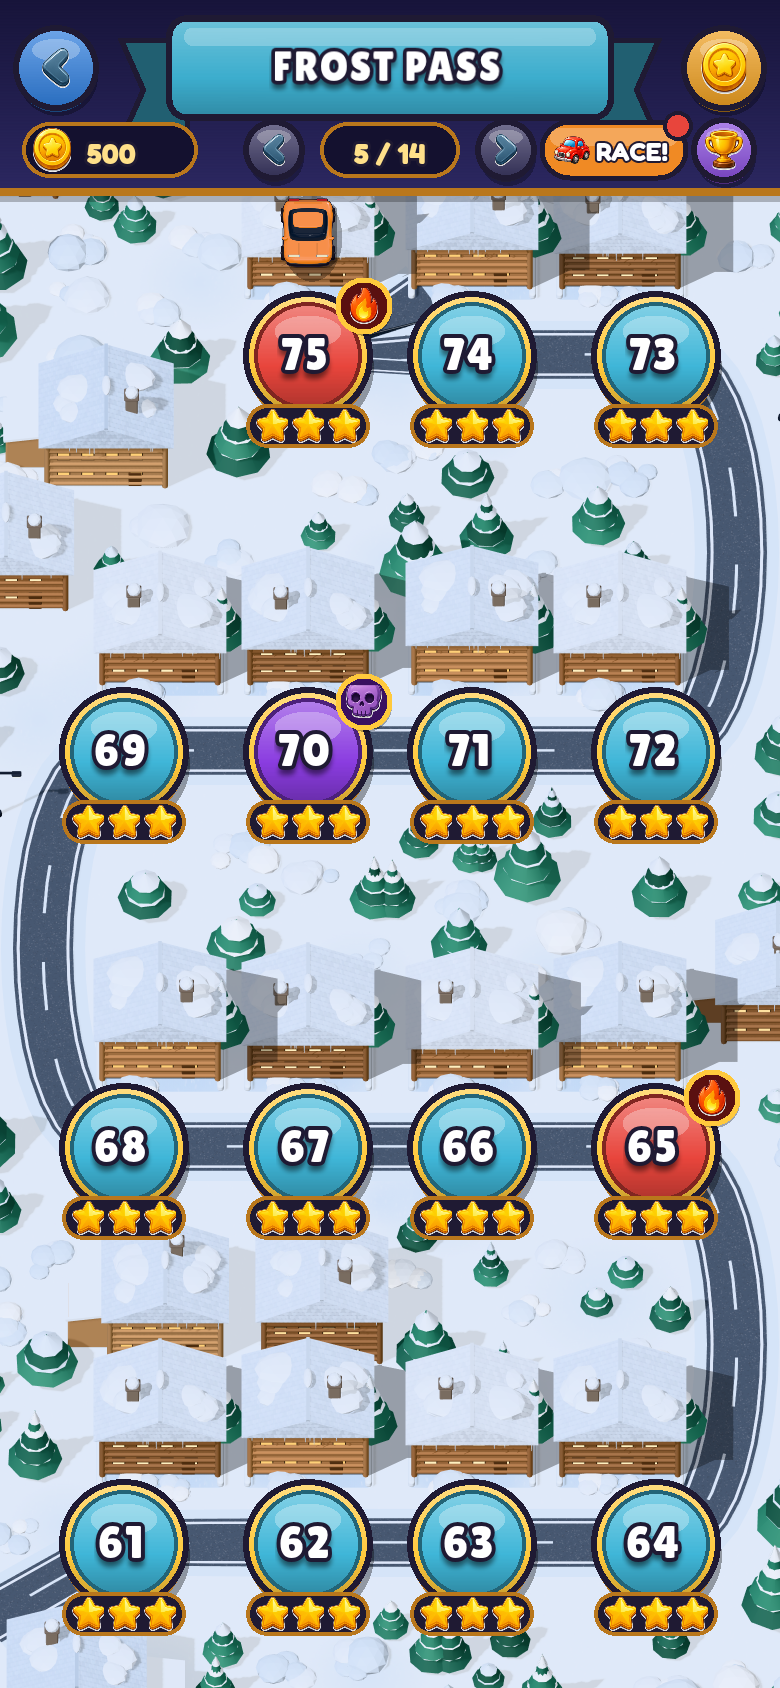
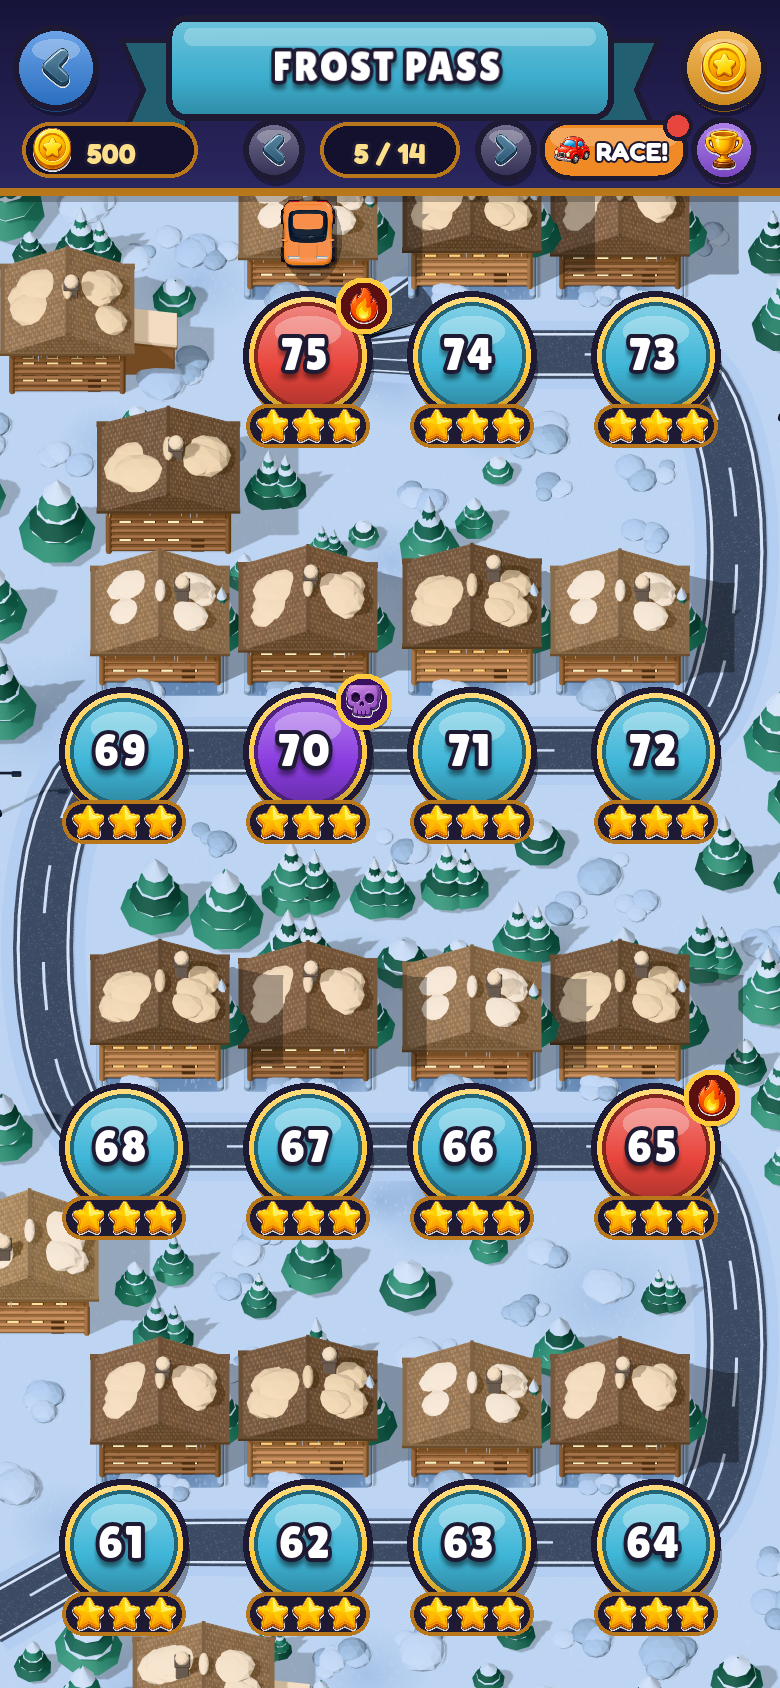
art(world5): separate cabin roof snow from street snow (CONCEPT revision)
Nadav rejected first CONCEPT: roofs and street snow blended. Warm peach-ivory
roof snow + dark eaves plank/shadow vs cooler blue-grey packed lot/street snow
with asphalt flecks; wood under-snow roofs; modest frost sceneGlow. Rebaked W5
backdrop/map/road/zone/repair. Still CONCEPT-STAMP, not HUMAN-FINAL.

diff --git a/tools/art/studio/backdrop.js b/tools/art/studio/backdrop.js
@@ -186,13 +186,16 @@ Object.assign(THEME, {
   // Frost Pass — snow town: log cabins with snow roofs, frosted pines.
   // Structural variety (log eaves, snow-laden roofs, chimneys, denser pines/drifts) — not a hue swap of Toy Town.
   world5: {
-    asphalt: 0x46505E, asphaltHi: 0x5A6574, asphaltLo: 0x3A4250, paint: '#F4F8FF', centre: '#EAF2FA',
-    kerb: 0xE4EEF7, gutter: 0x556070, walk: [0xF1F6FB, 0xE3ECF5, 0xEAF1F8, 0xD8E4F0], walkJoint: '#A7B9CC',
-    lawn: [0xF3F7FB, 0xE3ECF4, 0xD5E2EE], leaf: [0x265C49, 0x2F6E57, 0x3A7E64, 0x1F4E3C, 0x347A60], trunk: 0x4E3C2E,
-    roofs: [0xF2F6FA, 0xE4ECF4, 0xDCE6F0, 0xCBD8E6], walls: [0xA8744A, 0x9A6B45, 0xB98354, 0x8C5F3C, 0x7A5134, 0xC09060],
+    // Ground/street snow: cooler blue-grey packed ice (asphalt flecks show through) —
+    // deliberately darker/cooler than warm cabin roof snow so planes separate.
+    asphalt: 0x3E4654, asphaltHi: 0x505A68, asphaltLo: 0x323A46, paint: '#E8F0F8', centre: '#D0DCE8',
+    kerb: 0xA8BBCF, gutter: 0x4A5464, walk: [0xB8C8D8, 0xA8BBCF, 0xC0D0E0, 0x96AABC], walkJoint: '#6E8298',
+    lawn: [0xB4C4D4, 0xA0B4C6, 0x8FA6BA], leaf: [0x265C49, 0x2F6E57, 0x3A7E64, 0x1F4E3C, 0x347A60], trunk: 0x4E3C2E,
+    // Roof under-snow plank: warm brown wood so eaves/plank band read under ivory snow.
+    roofs: [0x8B6A48, 0x7A5A3E, 0x6E5238, 0x9A7850], walls: [0xA8744A, 0x9A6B45, 0xB98354, 0x8C5F3C, 0x7A5134, 0xC09060],
     awnings: [[0xE8453C, 0xFFFFFF], [0x2F8CFF, 0xFFFFFF], [0xF2C230, 0xFFFFFF]],
-    depot: [0xD3E0EC, 0xC8D7E6, 0xDCE7F1, 0xB8C9DA], depotJoint: '#8FA3B8', track: 0x7E93A8, trackEdge: 0xF4FAFF,
-    lot: 0xE8F0F7,
+    depot: [0xA8BBCF, 0x9AADBF, 0xB4C4D4, 0x8FA3B5], depotJoint: '#6E8298', track: 0x6A7E92, trackEdge: 0xC8D6E4,
+    lot: 0xA8BBCF,
     sun: { color: 0xE2ECFF, intensity: 3.05, hemi: [0xD7E6FF, 0x6E7E96, 0.78], env: 0.32, exposure: 1.07 },
   },
   // Harbor Lights — container docks: blue-grey concrete, bright boxes, orange bollards.
@@ -271,17 +274,18 @@ function roadTexture(T, world, L, r) {
       x.stroke();
     }
   }
-  // Frost Pass: icy asphalt snow flecks + packed-snow kerb drifts + cold slab joints.
+  // Frost Pass: blue-grey packed ice flecks (not roof-white) + asphalt peeking through.
   if (world === 'world5') {
-    for (let i = 0; i < 22; i++) blotch(x, r() * W, r() * H, 18 + r() * 55, 0xF4F8FF, 0.08 + r() * 0.12);
-    for (let i = 0; i < 16; i++) {
+    for (let i = 0; i < 18; i++) blotch(x, r() * W, r() * H, 14 + r() * 42, 0xA8BBCF, 0.10 + r() * 0.12);
+    for (let i = 0; i < 14; i++) blotch(x, r() * W, r() * H, 8 + r() * 22, 0x6A788A, 0.08 + r() * 0.10); // asphalt flecks
+    for (let i = 0; i < 14; i++) {
       const sx = X((r() < 0.5 ? -1 : 1) * (halfW - 0.3 - r() * 0.5));
-      blotch(x, sx, r() * H, (0.55 + r() * 1.2) * pxu, 0xEAF2FA, 0.18 + r() * 0.16);
+      blotch(x, sx, r() * H, (0.5 + r() * 1.0) * pxu, 0x96AABC, 0.16 + r() * 0.14);
     }
     // Cold expansion joints across the road (icy slabs).
-    x.strokeStyle = 'rgba(200,220,240,0.22)'; x.lineWidth = 1.6;
+    x.strokeStyle = 'rgba(150,180,205,0.28)'; x.lineWidth = 1.6;
     for (let wz = Math.ceil(z0 / 5.0) * 5.0; wz < z1; wz += 5.0) { x.beginPath(); x.moveTo(0, Y(wz)); x.lineTo(W, Y(wz)); x.stroke(); }
-    x.strokeStyle = 'rgba(40,50,65,0.22)'; x.lineWidth = 1.1;
+    x.strokeStyle = 'rgba(30,38,50,0.30)'; x.lineWidth = 1.2;
     for (let wz = Math.ceil(z0 / 5.0) * 5.0 + 2.5; wz < z1; wz += 5.0) { x.beginPath(); x.moveTo(0, Y(wz)); x.lineTo(W, Y(wz)); x.stroke(); }
   }
   // Night: wet sheen + lamp light pools and neon reflections.
@@ -587,14 +591,14 @@ function rockCluster(T, r, w = 0.9, d = 0.7) {
   return g;
 }
 function snowDrift(T, r, w = 0.9, d = 0.7) {
-  // Soft packed-snow mound / bank — Frost Pass ground dressing with size variety.
+  // Soft packed-snow mound / bank — cooler blue-grey ice (must not match warm roof snow).
   const g = new THREE.Group();
-  const cols = [0xF6FAFF, 0xEAF2FA, 0xFFFFFF, 0xDCE6F0];
+  const cols = [0xA8BBCF, 0x96AABC, 0xB4C4D4, 0x8A9EB0, 0xC0D0E0];
   const n = 4 + Math.floor(r() * 3);
   for (let i = 0; i < n; i++) {
     const big = i === 0 && r() < 0.55;
     const rad = (big ? 0.32 + r() * 0.22 : 0.16 + r() * 0.18) * Math.min(w, 1.35);
-    const m = blob(rad, std(pick(r, cols), 0.92), r, 1, 0.16);
+    const m = blob(rad, std(pick(r, cols), 0.88), r, 1, 0.16);
     m.scale.y = big ? 0.38 + r() * 0.22 : 0.32 + r() * 0.2;
     m.position.set((r() - 0.5) * w * 0.85, rad * m.scale.y * 0.45, (r() - 0.5) * d * 0.85);
     g.add(m);
@@ -605,7 +609,7 @@ function frostPine(T, r, s = 1) {
   // Tall / squat / twin frost pines — silhouette variety for Frost Pass, not one cone stack.
   const g = new THREE.Group();
   const kind = r();
-  const snow = std(pick(r, [0xF6FAFF, 0xEAF2FA, 0xFFFFFF]), 0.9);
+  const snow = std(pick(r, [0xD8E4F0, 0xC8D6E4, 0xE0EAF4]), 0.88);
   const addTree = (ox, sc) => {
     const tiers = kind < 0.28 ? 2 : kind < 0.7 ? 3 : 4;
     const trunkH = (0.4 + tiers * 0.12) * sc;
@@ -716,8 +720,10 @@ function townHouse(T, r, w, d, h, facing, opts = {}) {
       const side = r() < 0.5 ? -1 : 1;
       const wingZ = (r() - 0.3) * d * 0.2;
       g.add(rbox(ww, wh, wd, 0.04, wall, side * (w / 2 + ww / 2 - 0.05), wh / 2, wingZ));
-      // Snow-capped lean-to roof.
-      const lean = box(ww + 0.12, 0.08, wd + 0.12, std(0xF2F6FA, 0.9), side * (w / 2 + ww / 2 - 0.05), wh + 0.06, wingZ);
+      // Warm ivory lean-to snow cap + dark eaves plank so it separates from ground snow.
+      const leanPlank = box(ww + 0.14, 0.05, wd + 0.14, std(mix(wallCol, 0x000000, 0.28), 0.85), side * (w / 2 + ww / 2 - 0.05), wh + 0.03, wingZ);
+      leanPlank.rotation.z = side * -0.18; g.add(leanPlank);
+      const lean = box(ww + 0.1, 0.1, wd + 0.1, std(0xF0D4B0, 0.9), side * (w / 2 + ww / 2 - 0.05), wh + 0.1, wingZ);
       lean.rotation.z = side * -0.18;
       g.add(lean);
     }
@@ -740,10 +746,11 @@ function townHouse(T, r, w, d, h, facing, opts = {}) {
   if (opts.style ? opts.style === 'pitched' : r() < 0.62) {
     // Pitched roof along z (ridge runs along the street) with tile texture.
     // Cabin: wider eaves, snow-laden slopes, stone chimney, icicle cues.
-    const tex = roofTileTexture(cabin ? mix(roofCol, 0xD0D8E4, 0.35) : roofCol, r);
+    // Cabin: warm wood plank underlayer (not cool white) so snow mass + eaves silhouette separate from street snow.
+    const tex = roofTileTexture(roofCol, r);
     tex.repeat.set(w * 0.5, d * 0.5);
-    const mat = std(0xffffff, 0.75, { map: tex });
-    const rh = (cabin ? 0.65 : 0.55) + r() * 0.22, over = cabin ? 0.22 : 0.12;
+    const mat = std(0xffffff, cabin ? 0.82 : 0.75, { map: tex });
+    const rh = (cabin ? 0.68 : 0.55) + r() * 0.22, over = cabin ? 0.26 : 0.12;
     const shape = new THREE.Shape();
     shape.moveTo(-w / 2 - over, 0); shape.lineTo(0, rh); shape.lineTo(w / 2 + over, 0); shape.lineTo(-w / 2 - over, 0);
     const geo = new THREE.ExtrudeGeometry(shape, { depth: d + over * 2, bevelEnabled: false });
@@ -753,35 +760,49 @@ function townHouse(T, r, w, d, h, facing, opts = {}) {
     g.add(roof);
     g.add(box(0.08, 0.05, d + over * 2, std(mix(roofCol, 0x000000, 0.35), 0.7), 0, h + rh + 0.01, 0));
     if (cabin) {
-      // Snow load along both roof slopes + ridge.
-      const snowM = std(0xF6FAFF, 0.92);
+      // Dark under-snow plank band along eaves (silhouette edge vs ground plane).
+      const plank = std(mix(roofCol, 0x000000, 0.22), 0.85);
+      g.add(box(w + over * 2 + 0.08, 0.09, 0.1, plank, 0, h + 0.03, d / 2 + over - 0.02));
+      g.add(box(w + over * 2 + 0.08, 0.09, 0.1, plank, 0, h + 0.03, -(d / 2 + over - 0.02)));
+      // Side eaves plank bands
+      g.add(box(0.1, 0.09, d + over * 2 + 0.04, plank, -w / 2 - over + 0.02, h + 0.03, 0));
+      g.add(box(0.1, 0.09, d + over * 2 + 0.04, plank, w / 2 + over - 0.02, h + 0.03, 0));
+      // Soft eaves shadow onto cabin walls (overhang AO) — strengthens roof mass vs ground.
+      const eaveSh = std(0x120C08, 0.7);
+      g.add(box(w * 0.98, 0.08, d * 0.98, eaveSh, 0, h - 0.03, 0));
+      g.add(box(w + over * 1.8, 0.05, 0.16, eaveSh, 0, h - 0.015, d / 2 + 0.05));
+      g.add(box(0.1, 0.05, d + over * 1.6, eaveSh, -w / 2 - over * 0.3, h - 0.01, 0));
+      g.add(box(0.1, 0.05, d + over * 1.6, eaveSh, w / 2 + over * 0.3, h - 0.01, 0));
+      // Warm ivory roof snow (cream) — thicker than street drifts; not cool roof-white.
+      const snowWarm = [0xF2D9B8, 0xE8CBA6, 0xF6E0C4, 0xDFC29A];  // peach-ivory: stays warm under cool sceneGlow
+      const snowM = std(pick(r, snowWarm), 0.9);
       for (const side of [-1, 1]) {
-        for (let k = 0; k < 3; k++) {
-          const blobSnow = blob(0.28 + r() * 0.18, snowM, r, 1, 0.14);
-          blobSnow.scale.set(1.4, 0.35, 1.1);
-          blobSnow.position.set(side * (w * 0.22 + k * 0.08), h + rh * (0.55 - k * 0.1), (r() - 0.5) * d * 0.55);
+        for (let k = 0; k < 4; k++) {
+          const blobSnow = blob(0.30 + r() * 0.2, snowM, r, 1, 0.14);
+          blobSnow.scale.set(1.55, 0.48 + r() * 0.12, 1.15); // thicker snow mass
+          blobSnow.position.set(side * (w * 0.2 + k * 0.07), h + rh * (0.58 - k * 0.09), (r() - 0.5) * d * 0.55);
           g.add(blobSnow);
         }
       }
-      const ridgeSnow = blob(0.2, snowM, r, 1, 0.12);
-      ridgeSnow.scale.set(0.5, 0.4, d * 0.7);
-      ridgeSnow.position.set(0, h + rh + 0.06, 0);
+      const ridgeSnow = blob(0.22, snowM, r, 1, 0.12);
+      ridgeSnow.scale.set(0.55, 0.5, d * 0.75);
+      ridgeSnow.position.set(0, h + rh + 0.08, 0);
       g.add(ridgeSnow);
-      // Icicles under the eaves (camera-facing edge).
+      // Icicles under the eaves (camera-facing edge) — cool ice OK (not ground plane).
       for (let i = 0; i < 5 + Math.floor(r() * 4); i++) {
         const ix = (r() - 0.5) * (w + over);
         const ih = 0.12 + r() * 0.22;
-        g.add(cyl(0.015, 0.008, ih, std(0xEAF4FF, 0.35), ix, h - ih / 2 + 0.02, d / 2 + over - 0.02, 6));
+        g.add(cyl(0.015, 0.008, ih, std(0xC8D8E8, 0.4), ix, h - ih / 2 + 0.02, d / 2 + over - 0.02, 6));
       }
     }
-    if (r() < (cabin ? 0.92 : 0.8)) {   // chimney — cabin: taller stone with snow cap
+    if (r() < (cabin ? 0.92 : 0.8)) {   // chimney — cabin: taller stone with warm snow cap (breaks roof plane)
       const cx = (r() - 0.5) * w * 0.5;
       const cz = (r() - 0.5) * d * 0.5;
-      const ch = cabin ? 0.7 : 0.5;
-      g.add(rbox(cabin ? 0.28 : 0.22, ch, cabin ? 0.28 : 0.22, 0.03, std(cabin ? 0x8A7A6A : 0xB0674A, 0.8), cx, h + rh * 0.75, cz));
+      const ch = cabin ? 0.75 : 0.5;
+      g.add(rbox(cabin ? 0.3 : 0.22, ch, cabin ? 0.3 : 0.22, 0.03, std(cabin ? 0x7A6A5A : 0xB0674A, 0.8), cx, h + rh * 0.75, cz));
       if (cabin) {
-        g.add(rbox(0.34, 0.06, 0.34, 0.03, std(0x6E6054, 0.75), cx, h + rh * 0.75 + ch / 2 + 0.04, cz));
-        const chimSnow = blob(0.16, std(0xF6FAFF, 0.9), r, 1, 0.12); chimSnow.position.set(cx, h + rh * 0.75 + ch / 2 + 0.12, cz); g.add(chimSnow);
+        g.add(rbox(0.36, 0.07, 0.36, 0.03, std(0x5E5044, 0.75), cx, h + rh * 0.75 + ch / 2 + 0.04, cz));
+        const chimSnow = blob(0.17, std(0xF0D4B0, 0.9), r, 1, 0.12); chimSnow.position.set(cx, h + rh * 0.75 + ch / 2 + 0.14, cz); g.add(chimSnow);
       }
     }
     if (!cabin && r() < 0.5) {   // dormer skylight
@@ -1073,9 +1094,9 @@ export function buildBackdrop(world, variant, L) {
         g.add(hs);
         // Front garden: a path to the door, hedge along the pavement (gap at the
         // path), a tree and a flower bed on the lawn. World5: snow banks + frost pines.
-        const hedgeCol = world === 'world4' ? 0xE9D3A8 : world === 'world5' ? 0xEAF2F9 : T.leaf[2];
+        const hedgeCol = world === 'world4' ? 0xE9D3A8 : world === 'world5' ? 0x96AABC : T.leaf[2];
         const hx = s * (gardenX + 0.12), pathX = s * (gardenX + 0.58);
-        g.add(plane(1.2, Z(0.42) - Z(0), std(world === 'world5' ? 0xDDE6EF : 0xE4D9C2, 0.95), pathX, 0.1, Z(zc)));
+        g.add(plane(1.2, Z(0.42) - Z(0), std(world === 'world5' ? 0x8FA6BA : 0xE4D9C2, 0.95), pathX, 0.1, Z(zc)));
         const half = d / 2;
         for (const [a, b] of [[bz + 0.05, zc - 0.35], [zc + 0.35, bz + d - 0.05]]) {
           if (b - a < 0.3) continue;

diff --git a/tools/art/studio/mapdiorama.js b/tools/art/studio/mapdiorama.js
@@ -16,7 +16,7 @@ import {
 } from './backdrop.js';
 
 const NEW_WORLD = (w) => Number(w.slice(5)) > 3;
-const HEDGE = { world1: 0x3F8F3E, world4: 0xD8B27C, world5: 0xF2F7FB };
+const HEDGE = { world1: 0x3F8F3E, world4: 0xD8B27C, world5: 0x96AABC };
 const WALL = { world1: 0xEFDCC0, world2: 0xC9C4BA, world3: 0x3E4258, world4: 0xF0D2A0, world5: 0xA8744A, world6: 0xC9D3DC, world7: 0x3E3066 };
 
 function ribbon(points, width, mat, y, uvLen = 0) {
@@ -219,9 +219,9 @@ export function buildRepairHD(theme, state, variant) {
         { style: 'flat', roof: 0xD9683D, wall: 0xEBC993, kit: 0.5 },
         { style: 'pitched', roof: 0xD9683D, wall: 0xF7E7C9 },
       ] : [
-        { style: 'pitched', cabin: true, roof: 0xF2F6FA, wall: 0xA8744A },
-        { style: 'pitched', cabin: true, roof: 0xE4ECF4, wall: 0x9A6B45 },
-        { style: 'pitched', cabin: true, roof: 0xDCE6F0, wall: 0xB98354 },
+        { style: 'pitched', cabin: true, roof: 0x8B6A48, wall: 0xA8744A },
+        { style: 'pitched', cabin: true, roof: 0x7A5A3E, wall: 0x9A6B45 },
+        { style: 'pitched', cabin: true, roof: 0x6E5238, wall: 0xB98354 },
       ];
       const hh = theme === 'world5' ? 1.4 + (variant % 3) * 0.14 : 1.15;
       const hs = townHouse(T, rng(variant * 31 + 5), theme === 'world5' ? w + 0.18 : w, d, hh, 1, styles[variant % 3]);

diff --git a/src/renderer3d/ThemeRegistry.js b/src/renderer3d/ThemeRegistry.js
@@ -105,9 +105,10 @@ export const THEMES = {
     ambient:   { color: 0xdcecff, intensity: 0.60 },
     fog:       { color: 0xdce8f4, near: 22, far: 78 },
     roadColor: 0x20242a,
-    // Presentation-only wash: cold blue multiply on verge strips + icy haze add over the bake.
-    sceneTint: 0xD8E8F8,
-    sceneGlow: 0x284060,
+    // Presentation-only wash: cooler multiply on verge strips; glow kept modest so warm roof
+    // ivory stays distinct from cooler packed street/lot snow (Nadav roof/street separation).
+    sceneTint: 0xD0E0F0,
+    sceneGlow: 0x182838,
   },
   // Harbor (World 6, L76-90): late-day teal sky, warm sodium horizon, salt haze.
   harbor: {
